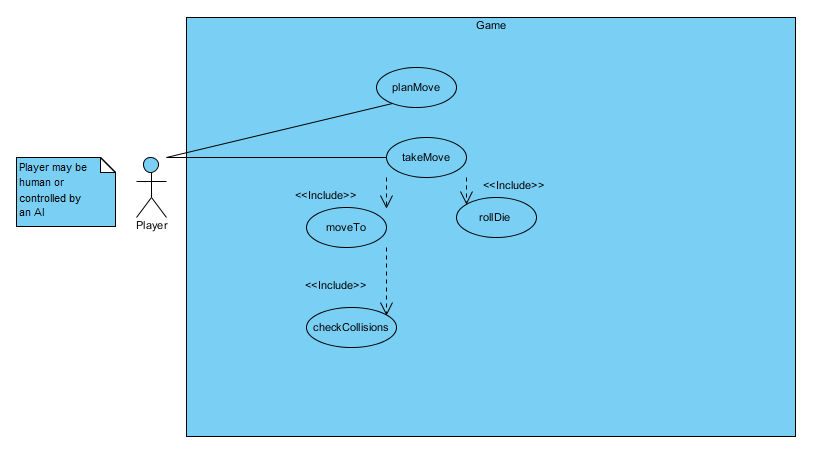
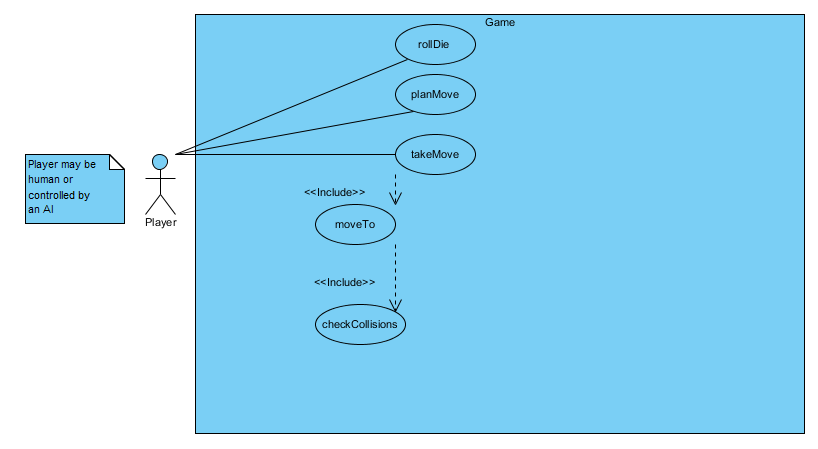
Modified Use case diagram and description
#1, #2

diff --git a/Milestone 1 Models/useCaseDiagramDescription.md b/Milestone 1 Models/useCaseDiagramDescription.md
@@ -1,0 +1,12 @@
+# Use Case Diagram Description
+
+## Use Case: "Take Ludo Turn"
+### Basic Flow:
+
+1. Start of player's turn.
+2. (rollDie) Player recieves randomized dice roll.
+3. (planMove) Positions of each pawn after move is calculated and displayed or passed into the AI.
+4. (takeMove) Player chooses one of the pawns to move.
+5. (moveTo) The pawn choice is moved according to the die roll.
+6. (checkCollisions) IF the pawn is occupying the same space as another, remove it from the field. ELSE do nothing.
+7. Player turn ends.
